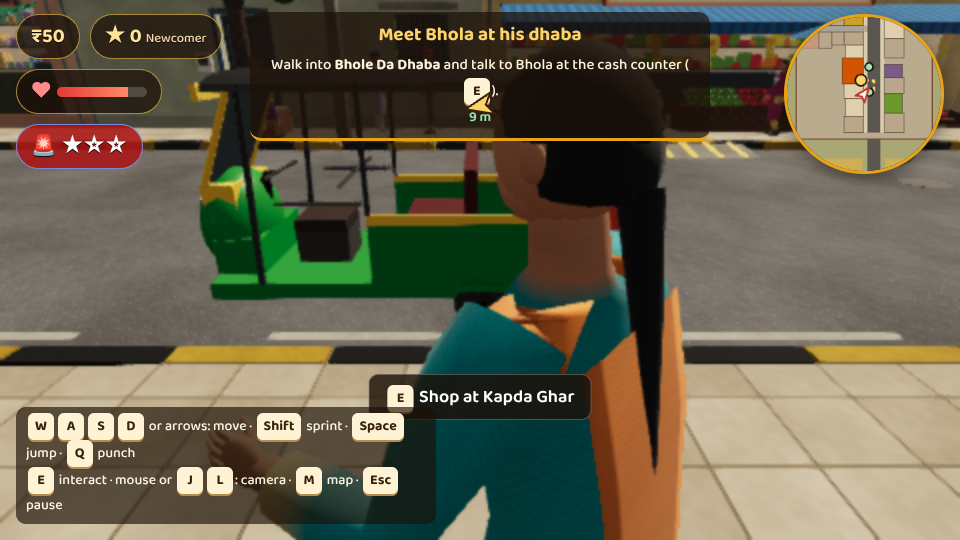
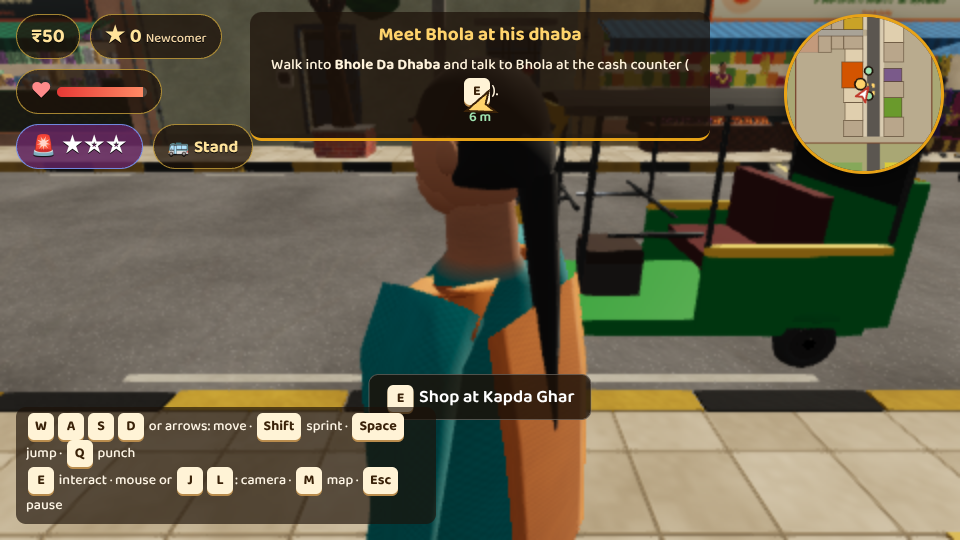
Make Ludhiana look like Ludhiana, and stand the trucks on their wheels
Ludhiana read as "a town with narrower streets". What it was missing was
everything that identifies the place rather than the density:

- Its own trades on the boards: hosiery, knitwear, shawls, machine tools and
  cycles, instead of the generic town signs.
- Striped cloth awnings on poles out over the footpath, with a valance — the
  thing you actually see first walking into a cloth market.
- Boards stacked two and three deep up the frontages, and bolts of cloth hung
  from the upper floors.
- The wires. Every gali is roofed by a sagging tangle of them strung between
  the frontages and along each side; nothing else says "this street" so
  cheaply, because poles and a tidy grid read as a planned town.
- Its own Ghanta Ghar: taller, redder and Indo-Saracenic, with corner
  turrets, arched openings, a balcony and a cupola, so it is not the same
  tower as Nawan Shehar's.

Trucks: measured every vehicle's resting attitude in the headless physics
world first — the truck settles at 0.05 deg pitch and 0 deg roll, so the lean
in the report was the grass shoulder it was parked on, not the vehicle. The
real fault was visual: four narrow wheels tucked 25 cm inside a 2.4 m body,
so it read as a box resting on the road. Taller tyres out at the body line,
doubled on the drive axle, with mudflaps.

Claude-Session: https://claude.ai/code/session_01VNXw6cCeYpuq4PxkhBPT1y

diff --git a/src/world/country.ts b/src/world/country.ts
@@ -4,7 +4,7 @@ import type { MatKey } from "../render/Materials";
 import { Rng } from "../render/textures";
 import type { Kit } from "./Kit";
 import { charpai } from "./interiors";
-import { tree } from "./props";
+import { tree, wire } from "./props";
 import {
   BRICK_PILES, BRIDGES, CANAL, CITY, DEFECTS, OUTER_BUILDINGS, PLOTS, REHRIS, ROADS, SITES, TOWN, TOWN_GAP_X, VILLAGE, WORLD, onRoad,
   type OuterBuilding, type Plot, type Road, type Site,
@@ -116,6 +116,7 @@ export function buildCountry(kit: Kit): CountryDecor {
   for (const s of SITES) buildSite(kit, s, decor);
   for (const r of REHRIS) rehri(kit, r.x, r.z, r.yaw, r.goods);
   for (const b of BRICK_PILES) brickPile(kit, b.x, b.z);
+  ludhianaWires(kit);
   roadsideTrees(kit, decor);
   streetLights(kit);
   junctionSigns(kit);
@@ -471,6 +472,54 @@ function cityBuilding(kit: Kit, b: OuterBuilding): void {
   kit.g("plaster").boxMinMax(-0.02, gh - 0.05, -0.05, w + 0.02, gh + 0.08, 0.15, mix(wall, WHITE, 0.5), 0b001110);
   windows(kit, rng, w, gh, b.floors - 1, fh, trim, wall);
   roofTop(kit, rng, w, d, top, shade(wall, 0.97));
+  if (b.id.startsWith("ludh")) chauraFront(kit, rng, b, w, gh, fh, top);
+}
+
+/** Awning stripes seen over every second shop in a cloth market. */
+const AWNING = ["#c62828", "#1565c0", "#2e7d32", "#f9a825", "#6a1b9a", "#00838f", "#ad1457"];
+
+/**
+ * What makes Chaura Bazaar look like Chaura Bazaar rather than a wider
+ * street: a striped cloth awning on poles over the pavement, boards stacked
+ * two and three deep up the frontage, and bolts of cloth hung out to show.
+ */
+function chauraFront(kit: Kit, rng: Rng, b: OuterBuilding, w: number, gh: number, fh: number, top: number): void {
+  if (b.shop) {
+    // Sloped cloth awning out over the footpath, on two thin poles.
+    const c = rgb(rng.pick(AWNING)), c2 = rgb(rng.pick(AWNING));
+    const out = rng.range(1.3, 1.9);
+    const hi = gh - 0.55, lo = hi - rng.range(0.35, 0.6);
+    const strip = Math.max(0.32, w / Math.round(w / 0.42));
+    // Alternating stripes, each a thin slab spanning the slope. Boxes rather
+    // than a true sloped sheet: at this scale the silhouette is what reads.
+    let k = 0;
+    for (let u = 0.15; u < w - 0.2; u += strip, k++) {
+      const u1 = Math.min(u + strip, w - 0.15);
+      kit.g("fabric").boxMinMax(u, lo, 0.05, u1 - 0.02, hi, out, k % 2 ? c : c2);
+    }
+    for (const u of [0.25, w - 0.25]) {
+      kit.g("metal").boxMinMax(u - 0.03, 0, out - 0.08, u + 0.03, lo, out - 0.02, rgb("#6d6d6d"));
+    }
+    // Valance hanging off the front lip.
+    kit.g("fabric").boxMinMax(0.15, lo - 0.28, out - 0.04, w - 0.15, lo, out, mix(c, rgb("#ffffff"), 0.25), 0b000010);
+  }
+  // Boards stacked up the floors — in a hosiery bazaar the whole wall is signs.
+  for (let f = 1; f < Math.min(b.floors, 4); f++) {
+    if (rng.next() < 0.45) continue;
+    const y = gh + 0.3 + (f - 0.5) * fh;
+    const bw = Math.min(w - 1.2, rng.range(2.4, 4.6));
+    kit.g("paint").boxMinMax(w / 2 - bw / 2, y - 0.42, 0.02, w / 2 + bw / 2, y + 0.42, 0.1, rgb(rng.pick(AWNING)), 0b000010);
+    kit.g("paint").boxMinMax(w / 2 - bw / 2 + 0.12, y - 0.26, 0.1, w / 2 + bw / 2 - 0.12, y + 0.26, 0.12, rgb("#f7f3e8"), 0b000010);
+  }
+  // A couple of bolts of cloth hung from an upper balcony.
+  if (b.floors > 1 && rng.next() < 0.5) {
+    for (let i = 0; i < rng.int(2, 4); i++) {
+      const u = rng.range(0.6, Math.max(0.7, w - 0.9));
+      const y = gh + 0.4 + rng.int(0, Math.max(0, b.floors - 2)) * fh;
+      kit.g("cloth").boxMinMax(u, y - rng.range(1.1, 2.0), 0.06, u + rng.range(0.3, 0.5), y, 0.1, rgb(rng.pick(AWNING)), 0b000010);
+    }
+  }
+  void top;
 }
 
 function villageHouse(kit: Kit, b: OuterBuilding): void {
@@ -513,7 +562,7 @@ function buildSite(kit: Kit, s: Site, decor: CountryDecor): void {
     case "highwayDhaba": highwayDhaba(kit, hx, hz, rng); break;
     case "petrol": petrol(kit, hx, hz); break;
     case "busAdda": busAdda(kit, hx, hz, rng); break;
-    case "ghantaGhar": ghantaGhar(kit, hx, hz); break;
+    case "ghantaGhar": ghantaGhar(kit, hx, hz, s.id === "ludhGhanta"); break;
     case "mandi": mandi(kit, hx, hz, rng); break;
     case "park": park(kit, s, hx, hz, rng); break;
     case "thana": thana(kit, hx, hz); break;
@@ -562,6 +611,125 @@ function highwayDhaba(kit: Kit, hx: number, hz: number, rng: Rng): void {
 }
 
 /** A vendor's hand-cart: wooden bed on cycle wheels, heaped with produce (front faces +Z). */
+/**
+ * The wires. Every Ludhiana gali is roofed by a sagging mess of them strung
+ * between the frontages, and nothing else says "this street" so cheaply:
+ * poles and a tidy grid read as a planned town, a tangle overhead does not.
+ */
+function ludhianaWires(kit: Kit): void {
+  const rng = new Rng(5150);
+  const fronts = OUTER_BUILDINGS.filter((b) => b.id.startsWith("ludh"));
+  for (const r of ROADS) {
+    if (!r.id.startsWith("ludh")) continue;
+    const alongX = r.x1 - r.x0 >= r.z1 - r.z0;
+    const c = alongX ? (r.z0 + r.z1) / 2 : (r.x0 + r.x1) / 2;
+    const a0 = alongX ? r.x0 : r.z0, a1 = alongX ? r.x1 : r.z1;
+    // Pair up the buildings facing each other across this street.
+    const near = (sd: number) => fronts
+      .filter((b) => {
+        const bc = alongX ? (b.z0 + b.z1) / 2 : (b.x0 + b.x1) / 2;
+        return Math.sign(bc - c) === sd && Math.abs(bc - c) < 18;
+      })
+      .sort((p, q) => (alongX ? p.x0 - q.x0 : p.z0 - q.z0));
+    const west = near(-1), east = near(1);
+    for (let i = 0; i < Math.min(west.length, east.length); i++) {
+      const A = west[i]!, Bb = east[i]!;
+      const aa = alongX ? (A.x0 + A.x1) / 2 : (A.z0 + A.z1) / 2;
+      if (aa < a0 + 6 || aa > a1 - 6) continue;
+      if (rng.next() < 0.35) continue;
+      const hA = 3.9 + (A.floors - 1) * 3.2, hB = 3.9 + (Bb.floors - 1) * 3.2;
+      // Two or three wires per crossing, at slightly different heights.
+      for (let k = 0; k < rng.int(2, 3); k++) {
+        const y = Math.min(hA, hB) - rng.range(0.4, 2.6) - k * 0.25;
+        if (y < 4.2) continue;
+        const off = rng.range(-1.6, 1.6);
+        const pa = alongX
+          ? new Vector3(aa + off, y, A.z0 > c ? A.z0 : A.z1)
+          : new Vector3(A.x0 > c ? A.x0 : A.x1, y, aa + off);
+        const pb = alongX
+          ? new Vector3(aa + off + rng.range(-1.2, 1.2), y - rng.range(0, 0.5), Bb.z0 > c ? Bb.z0 : Bb.z1)
+          : new Vector3(Bb.x0 > c ? Bb.x0 : Bb.x1, y - rng.range(0, 0.5), aa + off + rng.range(-1.2, 1.2));
+        wire(kit, pa, pb, rng.range(0.5, 1.4), rng.range(0.012, 0.022));
+      }
+    }
+    // And a few running along the street, shop to shop.
+    const side = rng.next() < 0.5 ? west : east;
+    for (let i = 1; i < side.length; i++) {
+      if (rng.next() < 0.45) continue;
+      const A = side[i - 1]!, Bb = side[i]!;
+      const y = 3.9 + Math.min(A.floors, Bb.floors) * 3.2 - rng.range(1.2, 3.0);
+      if (y < 4.2) continue;
+      const pa = alongX ? new Vector3((A.x0 + A.x1) / 2, y, A.z0 > c ? A.z0 : A.z1) : new Vector3(A.x0 > c ? A.x0 : A.x1, y, (A.z0 + A.z1) / 2);
+      const pb = alongX ? new Vector3((Bb.x0 + Bb.x1) / 2, y, Bb.z0 > c ? Bb.z0 : Bb.z1) : new Vector3(Bb.x0 > c ? Bb.x0 : Bb.x1, y, (Bb.z0 + Bb.z1) / 2);
+      wire(kit, pa, pb, rng.range(0.3, 0.9), 0.014);
+    }
+  }
+}
+
+/** Ludhiana's Ghanta Ghar: red brick, four turrets, arches and a cupola. */
+function ludhianaTower(kit: Kit, hx: number, hz: number, red: RGB, cream: RGB): void {
+  const H = 24;
+  // Stepped plinth.
+  kit.g("plaster").boxMinMax(-5, 0, -5, 5, 1.1, 5, cream);
+  kit.g("brick").boxMinMax(-4.2, 1.1, -4.2, 4.2, 2.0, 4.2, [1, 1, 1]);
+  kit.collide(0, 1, 0, 10, 2.0, 10);
+  // Shaft, banded in cream every storey.
+  kit.g("brick").boxMinMax(-2.7, 2.0, -2.7, 2.7, H - 5, 2.7, [1, 1, 1]);
+  kit.collide(0, H / 2, 0, 5.4, H - 4, 5.4);
+  for (let y = 5.2; y < H - 6; y += 4.2) {
+    kit.g("plaster").boxMinMax(-2.85, y, -2.85, 2.85, y + 0.35, 2.85, cream);
+    // Arched openings on each face, two per band.
+    for (let i = 0; i < 4; i++) {
+      const a = (i * Math.PI) / 2, fx = Math.sin(a) * 2.72, fz = Math.cos(a) * 2.72;
+      const saved = kit.toWorld(0, 0, 0), rot = kit.currentRotY();
+      kit.frame(saved.x + fx, saved.z + fz, a);
+      for (const u of [-1.1, 1.1]) {
+        kit.g("dark").boxMinMax(u - 0.42, y + 0.9, -0.02, u + 0.42, y + 2.5, 0.04, [1, 1, 1], 0b000010);
+        kit.g("plaster").ellipsoid(u, y + 2.5, 0.01, 0.42, 0.42, 0.03, 10, 5, cream, 0, 1);
+      }
+      kit.frame(saved.x, saved.z, rot);
+    }
+  }
+  // Balcony under the clock stage.
+  kit.g("plaster").boxMinMax(-3.6, H - 5.4, -3.6, 3.6, H - 5.0, 3.6, cream);
+  for (let i = 0; i < 4; i++) {
+    const a = (i * Math.PI) / 2, fx = Math.sin(a) * 3.5, fz = Math.cos(a) * 3.5;
+    const saved = kit.toWorld(0, 0, 0), rot = kit.currentRotY();
+    kit.frame(saved.x + fx, saved.z + fz, a);
+    for (let u = -3.2; u <= 3.21; u += 0.45) kit.g("plaster").boxMinMax(u - 0.06, H - 5.0, -0.06, u + 0.06, H - 4.2, 0.06, cream);
+    kit.frame(saved.x, saved.z, rot);
+  }
+  // Clock stage and four faces.
+  kit.g("brick").boxMinMax(-2.95, H - 5.0, -2.95, 2.95, H - 1.2, 2.95, [1, 1, 1]);
+  for (let i = 0; i < 4; i++) {
+    const a = (i * Math.PI) / 2, fx = Math.sin(a) * 2.98, fz = Math.cos(a) * 2.98;
+    const saved = kit.toWorld(0, 0, 0), rot = kit.currentRotY();
+    kit.frame(saved.x + fx, saved.z + fz, a);
+    kit.g("emissive").cylinderZ(0, H - 3.1, 0.02, 1.25, 0.06, 24, rgb("#fbf6e9"));
+    kit.g("paint").cylinderZ(0, H - 3.1, 0.05, 1.32, 0.03, 24, rgb("#4e342e"));
+    kit.g("paint").boxMinMax(-0.05, H - 3.1, 0.07, 0.05, H - 2.15, 0.1, IRON);
+    kit.g("paint").boxMinMax(-0.05, H - 3.16, 0.07, 0.68, H - 3.04, 0.1, IRON);
+    kit.frame(saved.x, saved.z, rot);
+  }
+  // Cornice, dome and finial.
+  kit.g("plaster").boxMinMax(-3.3, H - 1.2, -3.3, 3.3, H - 0.7, 3.3, cream);
+  kit.g("plaster").ellipsoid(0, H - 0.7, 0, 2.5, 2.6, 2.5, 14, 7, cream, 0, 1);
+  kit.g("metal").cylinder(0, H + 1.9, 0, 0.09, 0.02, 1.9, 6, rgb("#c9a227"));
+  // Corner turrets with their own little domes.
+  for (const [sx, sz] of [[-1, -1], [1, -1], [-1, 1], [1, 1]] as const) {
+    const x = sx * 3.1, z = sz * 3.1;
+    kit.g("brick").cylinder(x, 2.0, z, 0.62, 0.62, H - 8.5, 10, [1, 1, 1]);
+    kit.g("plaster").cylinder(x, H - 6.5, z, 0.78, 0.7, 0.4, 10, cream);
+    kit.g("plaster").ellipsoid(x, H - 6.1, z, 0.72, 0.8, 0.72, 10, 5, red, 0, 1);
+  }
+  // Benches round the base, and the board.
+  for (const [x, z] of [[-hx + 3, -hz + 3], [hx - 3, -hz + 3], [-hx + 3, hz - 3], [hx - 3, hz - 3]] as const) {
+    kit.g("wood").boxMinMax(x - 1.2, 0.45, z - 0.3, x + 1.2, 0.55, z + 0.3, rgb("#7a5536"));
+  }
+  kit.frame(kit.toWorld(0, 0, 0).x, kit.toWorld(0, 0, 0).z - 5.05, Math.PI);
+  kit.sign("ghantaGhar", 0, 0.6, 0, 2.8);
+}
+
 /** A small heap of half-bricks at the kerb: scenery you can pick a weapon off. */
 function brickPile(kit: Kit, x: number, z: number): void {
   const rng = new Rng(Math.round(Math.abs(x) * 31 + Math.abs(z) * 7) + 1);
@@ -680,9 +848,15 @@ function busProp(kit: Kit, x: number, z: number, rng: Rng): void {
   kit.collide(x, 1.8, z, 2.6, 3.4, 11);
 }
 
-function ghantaGhar(kit: Kit, hx: number, hz: number): void {
+/**
+ * The clock tower. Ludhiana's is the taller, redder Indo-Saracenic one that
+ * the whole city gives directions by — corner turrets, arched openings and a
+ * balcony — so it does not read as the same tower as Nawan Shehar's.
+ */
+function ghantaGhar(kit: Kit, hx: number, hz: number, ludhiana = false): void {
   paving(kit, hx, hz, "paver", rgb("#d8c9ae"));
-  const red = rgb("#a2432f"), cream = rgb("#efe0bf");
+  const red = ludhiana ? rgb("#8d3b24") : rgb("#a2432f"), cream = rgb("#efe0bf");
+  if (ludhiana) { ludhianaTower(kit, hx, hz, red, cream); return; }
   kit.g("plaster").boxMinMax(-4, 0, -4, 4, 1.0, 4, cream);
   kit.collide(0, 0.5, 0, 8, 1.0, 8);
   kit.g("brick").boxMinMax(-2.4, 1.0, -2.4, 2.4, 15, 2.4, [1, 1, 1]);

diff --git a/src/render/Signs.ts b/src/render/Signs.ts
@@ -49,6 +49,13 @@ export const SIGNS: SignDef[] = [
   { key: "toCity", gurmukhi: "ਨਵਾਂ ਸ਼ਹਿਰ →", english: "NAWAN SHEHAR →", bg: "#1b5e20", fg: "#ffffff", accent: "#ffffff", shape: "small" },
   { key: "toKotli", gurmukhi: "ਪਿੰਡ ਕੋਟਲੀ ↑", english: "PIND KOTLI ↑ · NEHAR", bg: "#1b5e20", fg: "#ffffff", accent: "#ffffff", shape: "small" },
   { key: "hornOk", gurmukhi: "ਹਾਰਨ ਓਕੇ ਪਲੀਜ਼", english: "HORN OK PLEASE", bg: "#ffeb3b", fg: "#c62828", accent: "#1565c0", shape: "small" },
+  // Ludhiana's own trades: hosiery and knitwear ("India's Manchester"), the
+  // cycle industry, and the cloth market of Chaura Bazaar.
+  { key: "lHosiery", gurmukhi: "ਸ਼ਰਮਾ ਹੌਜ਼ਰੀ", english: "SHARMA HOSIERY", sub: "Woollen · Inner · Export Surplus", bg: "#00695c", fg: "#ffffff", accent: "#ffd54f", shape: "wide", icon: "needle" },
+  { key: "lKnit", gurmukhi: "ਪੰਜਾਬ ਨਿੱਟਵੀਅਰ", english: "PUNJAB KNITWEAR", sub: "Sweaters · Lower · T-Shirt", bg: "#ad1457", fg: "#ffffff", accent: "#fff59d", shape: "wide", icon: "needle" },
+  { key: "lCycle", gurmukhi: "ਨਿਊ ਹੀਰੋ ਸਾਈਕਲ ਸਟੋਰ", english: "NEW HERO CYCLE STORE", sub: "Parts · Repair · Rickshaw", bg: "#1565c0", fg: "#ffffff", accent: "#ff6f00", shape: "wide", icon: "wheel" },
+  { key: "lShawl", gurmukhi: "ਚੌੜਾ ਬਜ਼ਾਰ ਸ਼ਾਲ ਘਰ", english: "CHAURA BAZAAR SHAWL GHAR", sub: "Pashmina · Loi · Khes", bg: "#6a1b9a", fg: "#ffe082", accent: "#ffe082", shape: "wide" },
+  { key: "lMachine", gurmukhi: "ਗਿੱਲ ਮਸ਼ੀਨ ਟੂਲਜ਼", english: "GILL MACHINE TOOLS", sub: "Hosiery Machinery · Spares", bg: "#37474f", fg: "#ffeb3b", accent: "#ffffff", shape: "wide" },
   { key: "cMithai", gurmukhi: "ਖੁਰਾਣਾ ਮਿਠਾਈ ਭੰਡਾਰ", english: "KHURANA MITHAI BHANDAR", sub: "Since 1971", bg: "#ff6f00", fg: "#ffffff", accent: "#fff3e0", shape: "wide", icon: "sweet" },
   { key: "cMobile", gurmukhi: "ਹੈਲੋ ਮੋਬਾਈਲ ਜ਼ੋਨ", english: "HELLO MOBILE ZONE", sub: "Sales · Repair · Recharge", bg: "#d81b60", fg: "#ffffff", accent: "#ffeb3b", shape: "wide", icon: "phone" },
   { key: "cCloth", gurmukhi: "ਪੰਜਾਬ ਕਲਾਥ ਹਾਊਸ", english: "PUNJAB CLOTH HOUSE", sub: "Suits · Shirting · Phulkari", bg: "#4527a0", fg: "#ffffff", accent: "#ffc107", shape: "wide", icon: "needle" },

diff --git a/src/world/region.ts b/src/world/region.ts
@@ -141,6 +141,8 @@ export interface OuterBuilding extends Rect {
 
 const CITY_COLORS = ["#e3d2b0", "#d9b99b", "#c9d1c3", "#e8c9a0", "#cfd8dc", "#f0e0c0", "#d7ccc8", "#e6b89c", "#b8c9b0", "#f3d9b1"];
 const SHOP_SIGNS = ["cMithai", "cMobile", "cCloth", "cElectro", "cJewel", "cTyre", "cHotel", "cLassi", "cDhaba", "cMedical", "cBooks", "cSalon"];
+/** Chaura Bazaar trades: hosiery, knitwear and cycles, with the usual mixed in. */
+const LUDH_SIGNS = ["lHosiery", "lKnit", "lCycle", "lShawl", "lMachine", "lHosiery", "lKnit", "cCloth", "cJewel", "cMithai", "cLassi", "cMobile"];
 
 function intersects(a: Rect, b: Rect, pad = 0): boolean {
   return a.x0 < b.x1 + pad && a.x1 > b.x0 - pad && a.z0 < b.z1 + pad && a.z1 > b.z0 - pad;
@@ -258,7 +260,7 @@ function ludhianaBuildings(taken: OuterBuilding[]): OuterBuilding[] {
           id: `ludh${n}`, style: "city", ...rect,
           face: alongX ? (sd < 0 ? 0 : Math.PI) : (sd < 0 ? -Math.PI / 2 : Math.PI / 2),
           floors: rng.int(3, 6), color: rng.pick(CITY_COLORS),
-          shop: rng.next() < 0.92 ? rng.pick(SHOP_SIGNS) : undefined, seed: 4000 + n,
+          shop: rng.next() < 0.95 ? rng.pick(LUDH_SIGNS) : undefined, seed: 4000 + n,
         });
         n++;
       }
